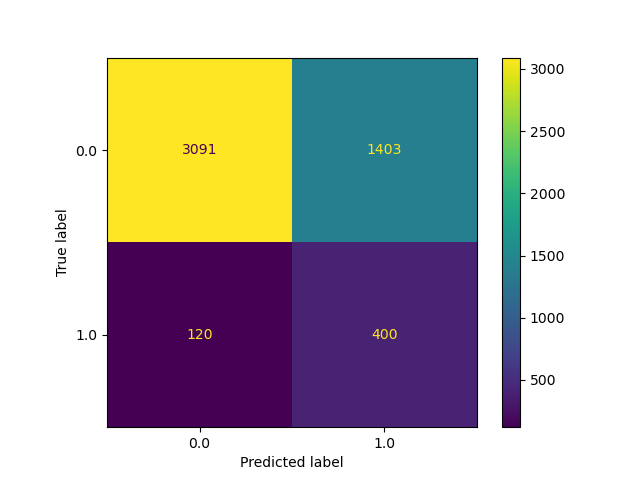
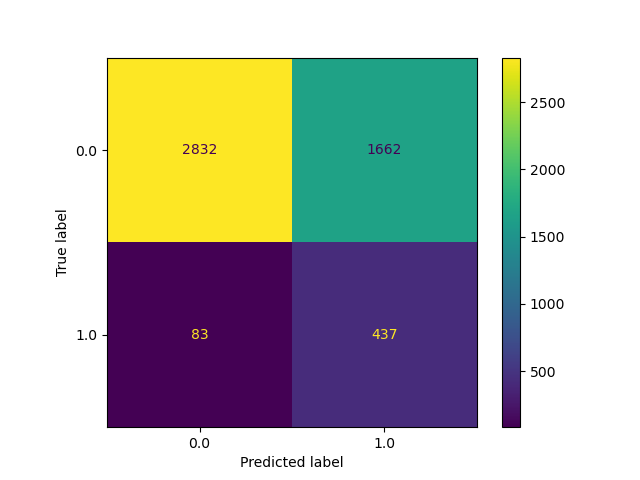
small changes to GNN architecture

diff --git a/models/graph_neural_nets.py b/models/graph_neural_nets.py
@@ -51,17 +51,23 @@ class GIN(torch.nn.Module):
                                         ReLU(),
                                         Linear(h_dim, h_dim),
                                         ReLU()), edge_dim=4)
-        self.lin1 = Linear(h_dim*3, h_dim*3)
-        self.lin2 = Linear(h_dim*3, out_dim)
+        self.conv4 = GINEConv(Sequential(Linear(h_dim, h_dim),
+                                        BatchNorm1d(h_dim, h_dim),
+                                        ReLU(),
+                                        Linear(h_dim, h_dim),
+                                        ReLU()), edge_dim=4)
+        self.lin1 = Linear(h_dim*4, h_dim*4)
+        self.lin2 = Linear(h_dim*4, out_dim)
 
     def forward(self, x, edge_index, edge_attr):
         # Node embeddings
         h1 = self.conv1(x, edge_index, edge_attr)
         h2 = self.conv2(h1, edge_index, edge_attr)
         h3 = self.conv3(h2, edge_index, edge_attr)
+        h4 = self.conv3(h3, edge_index, edge_attr)
 
         # Concatenate embeddings
-        h = torch.cat((h1, h2, h3), dim=1)
+        h = torch.cat((h1, h2, h3, h4), dim=1)
 
         # Classify
         h = self.lin1(h)

diff --git a/main.py b/main.py
@@ -65,7 +65,7 @@ def main():
 
     device = torch.device('cuda' if torch.cuda.is_available() else 'cpu')
 
-    gin_model = GIN(in_dim=dataset.num_features, h_dim=64, out_dim=dataset.num_classes).to(device)
+    gin_model = GIN(in_dim=dataset.num_features, h_dim=128, out_dim=dataset.num_classes).to(device)
     print(gin_model)
 
     for epoch in range(30):
